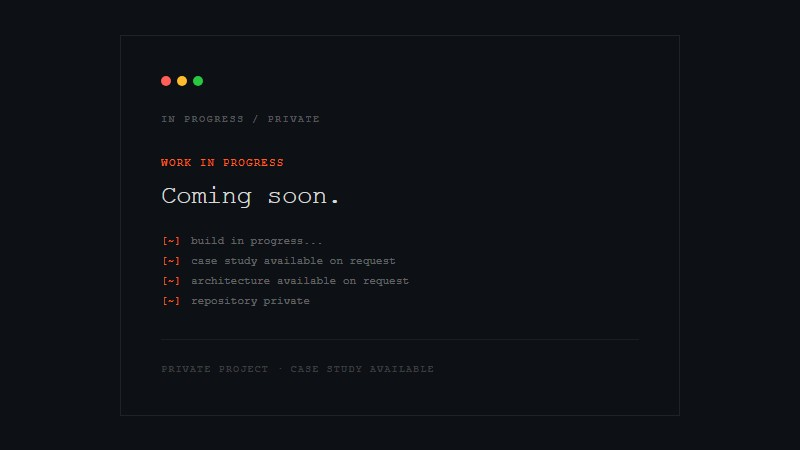
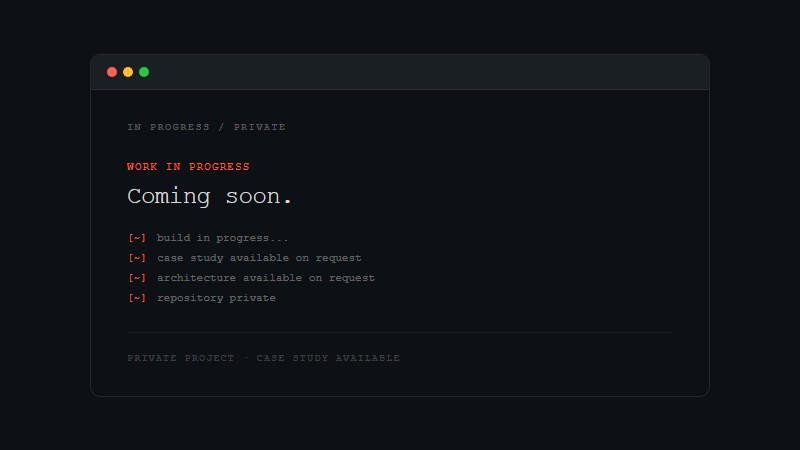
feat: add mac titlebar chrome to terminal surfaces and WIP placeholder
WIP placeholder rebuilt with rounded corners and dedicated titlebar strip.
ContactDialog TerminalStream and CommandPalette headers get matching
bg-[#1a1f24] titlebar with mac dots left and label right. TerminalPanel
on ProjectCard hover left as-is (too compact for a full titlebar).

diff --git a/src/components/ui/CommandPalette.tsx b/src/components/ui/CommandPalette.tsx
@@ -205,8 +205,15 @@ export function CommandPalette() {
           aria-modal="true"
           aria-label="Command palette"
         >
-          <div className="flex items-center justify-between gap-2 px-4 sm:px-6 md:px-10 py-3 sm:py-4 border-b border-signal/20">
-            <span className="font-mono text-xs text-signal">terminal</span>
+          <div className="flex items-center justify-between gap-2 px-4 sm:px-6 md:px-10 py-3 border-b border-signal/20 bg-[#1a1f24]">
+            <div className="flex items-center gap-3">
+              <div className="flex items-center gap-1.5">
+                <span className="w-2.5 h-2.5 rounded-full bg-[#ff5f57]" aria-hidden="true" />
+                <span className="w-2.5 h-2.5 rounded-full bg-[#ffbd2e]" aria-hidden="true" />
+                <span className="w-2.5 h-2.5 rounded-full bg-[#28c941]" aria-hidden="true" />
+              </div>
+              <span className="font-mono text-[10px] uppercase tracking-[0.16em] text-signal/40">terminal</span>
+            </div>
             <button
               type="button"
               onClick={close}

diff --git a/src/components/ui/ContactDialog.tsx b/src/components/ui/ContactDialog.tsx
@@ -47,13 +47,13 @@ function TerminalStream() {
 
   return (
     <div className="hidden md:flex flex-col h-full bg-[#0d1014]">
-      <div className="p-6 border-b border-ash/10">
-        <div className="flex items-center gap-1.5 mb-4">
+      <div className="px-6 py-3 border-b border-ash/10 bg-[#1a1f24] flex items-center justify-between">
+        <div className="flex items-center gap-1.5">
           <span className="w-2.5 h-2.5 rounded-full bg-[#ff5f57]" aria-hidden="true" />
           <span className="w-2.5 h-2.5 rounded-full bg-[#ffbd2e]" aria-hidden="true" />
           <span className="w-2.5 h-2.5 rounded-full bg-[#28c941]" aria-hidden="true" />
         </div>
-        <p className="font-mono text-[10px] uppercase tracking-[0.16em] text-ash/60">SYSTEM STREAM</p>
+        <p className="font-mono text-[10px] uppercase tracking-[0.16em] text-ash/40">SYSTEM STREAM</p>
       </div>
       <div className="flex-1 overflow-hidden p-6">
         <div className="space-y-2">
